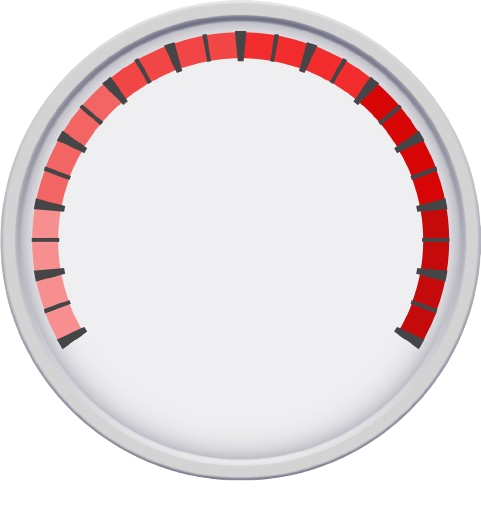
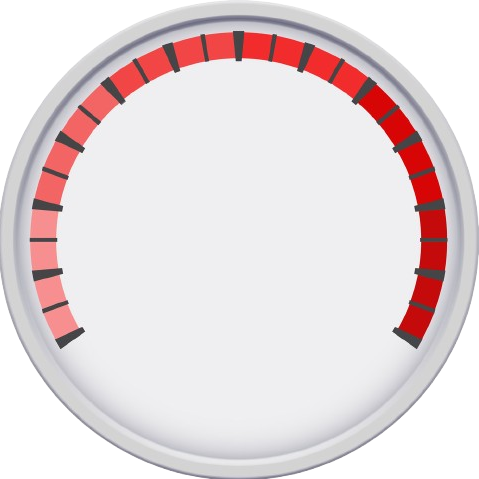
Resized images, implemented resize() and minor tweak
got rid of the useless stickx and sticky values

Changed region(s): [[0.0, 0.0292, 1.0, 1.0]]

diff --git a/src/gipGauge.cpp b/src/gipGauge.cpp
@@ -51,8 +51,9 @@ void gipGauge::update(float deltaTime) {
 void gipGauge::draw() {
 	renderer->enableAlphaBlending();
 	renderer->setColor(255, 255, 255);
-	gaugebg->draw(bgx,bgy,width,height);
-	gaugestick->draw(bgx+5, bgy-20 ,width,height,angle);
+	gaugebg->draw(bgx, bgy, width, height);
+	//gaugestick->draw(bgx, bgy-15 ,width,height,angle);
+	gaugestick->draw(bgx, bgy - height * 18/400, width, height, angle);
 	renderer->disableAlphaBlending();
 }
 
@@ -151,7 +152,9 @@ float gipGauge::getAngle(){
 void gipGauge::setPosition(int x, int y) {
 	bgx = x;
 	bgy = y;
+}
 
-	stickx = x + 10;
-	sticky = y - 20;
+void gipGauge::setSize(int width, int height) {
+	this->width = width;
+	this->height = height;
 }

diff --git a/src/gipGauge.h b/src/gipGauge.h
@@ -34,6 +34,7 @@ public:
 	void setAnimationSpeed(float animationspeed);
 	void setGaugeImage(gImage* gaugebg, gImage* stick);
 	void setAngle();
+	void setSize(int width, int height);
 
 	int getValue();
 	int getMax();
@@ -47,7 +48,7 @@ private:
 	int targetvalue;
 
 	float angle, imageoffset;
-	int bgx, bgy, stickx, sticky;
+	int bgx, bgy;
 	int width, height;
 
 	float animationspeed = 100;
